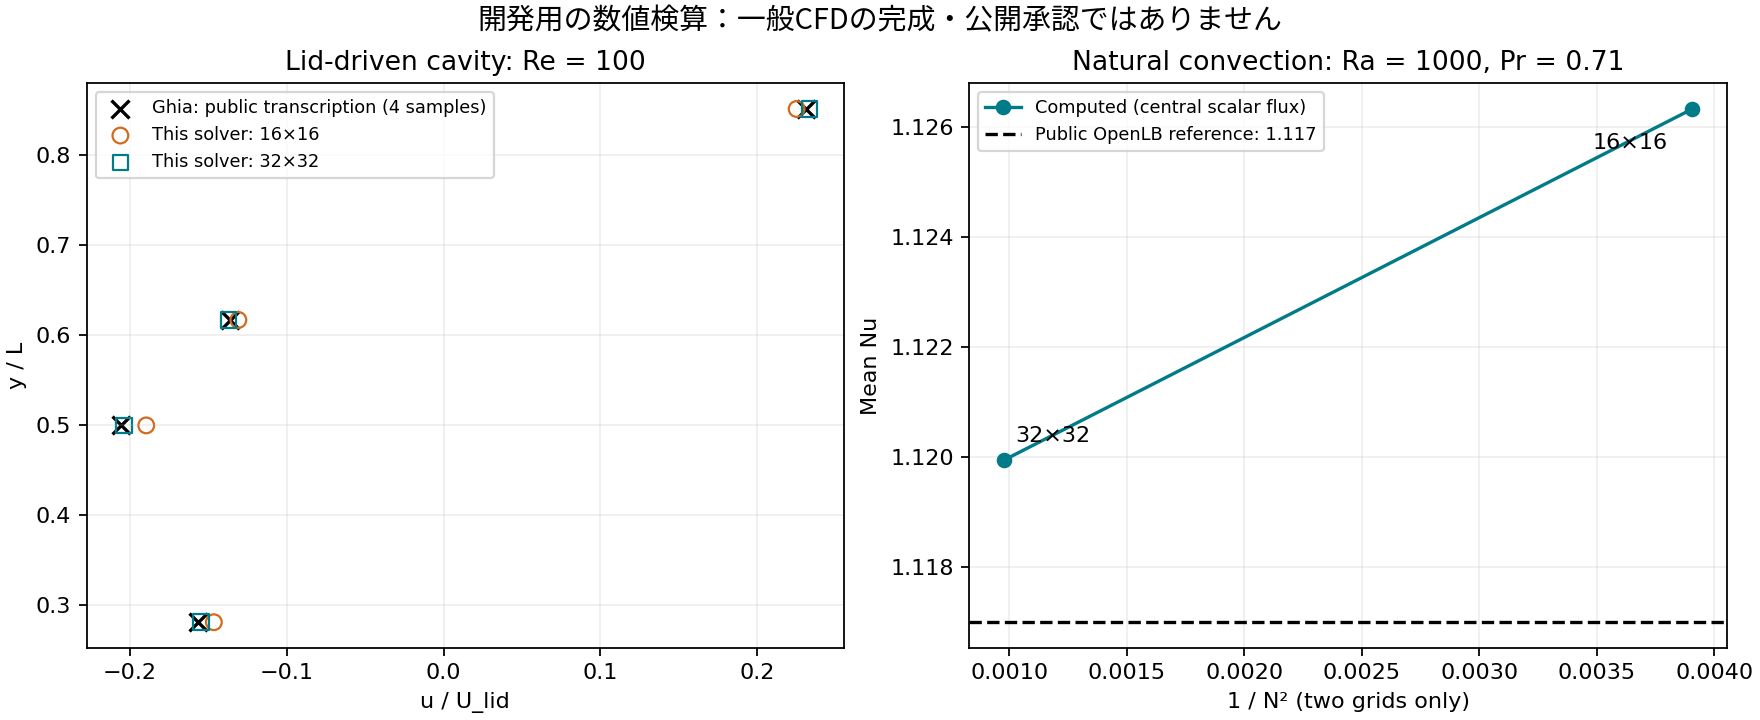
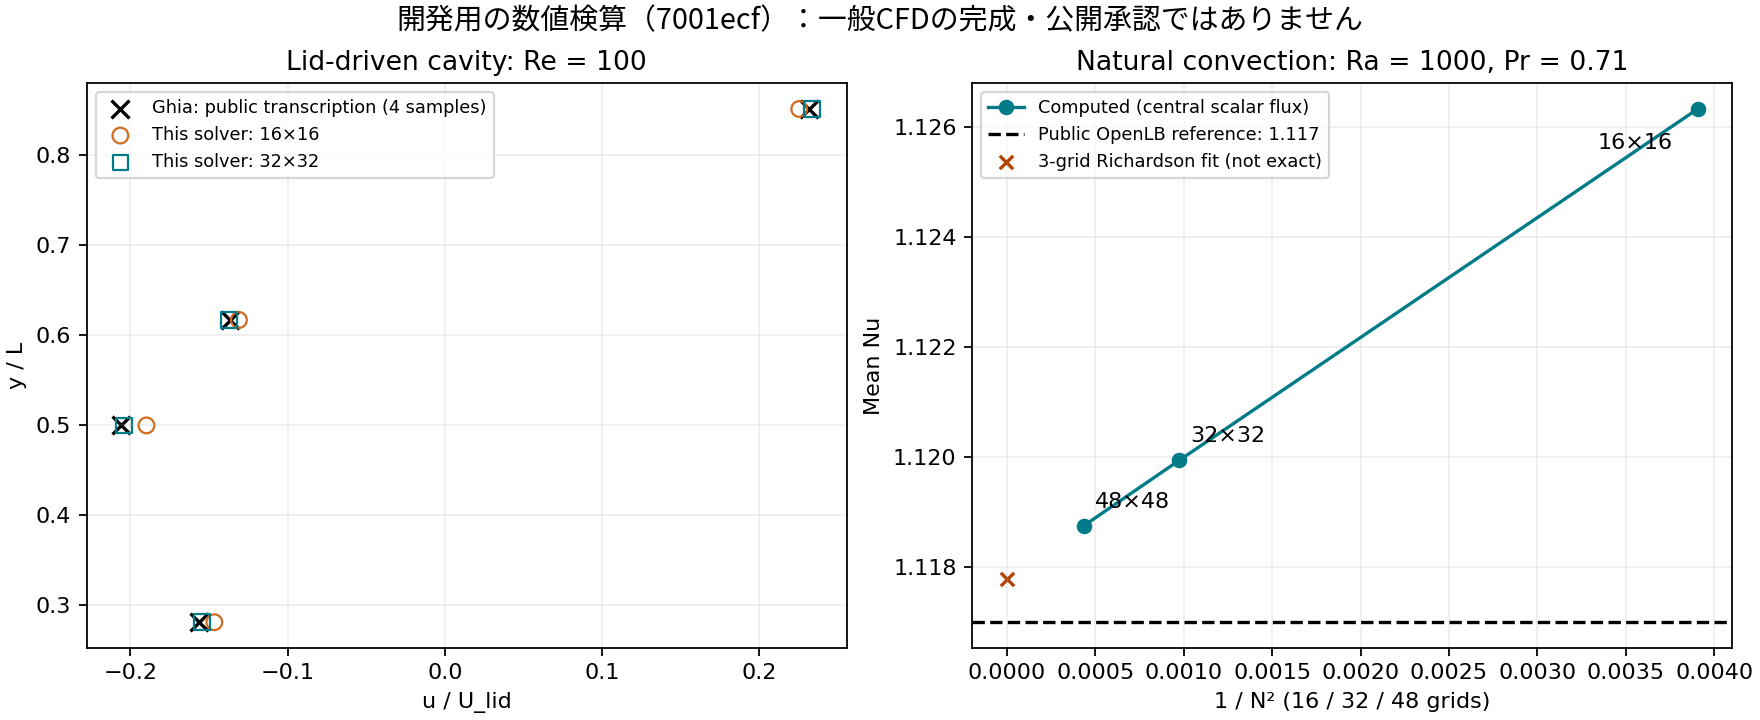
Persist reproducible three-grid CFD evidence and harden developed-channel state

diff --git a/scripts/plot-dynamic-cfd-benchmarks.py b/scripts/plot-dynamic-cfd-benchmarks.py
@@ -7,7 +7,7 @@ matplotlib.use('Agg')
 import matplotlib.pyplot as plt
 from matplotlib.font_manager import FontProperties
 root=Path(__file__).resolve().parents[1]
-r=json.loads((root/'docs/dynamic/CFD_BENCHMARKS_20261104.json').read_text())
+r=json.loads((root/'docs/dynamic/CFD_FULL_REPRODUCTION_20261104.json').read_text())
 candidates=subprocess.check_output(['fc-list',':lang=ja','-f','%{file}\n'],text=True).splitlines()
 font_path=next((p for p in candidates if p.endswith('NotoSansCJK-Regular.ttc')),next((p for p in candidates if p.endswith(('.ttf','.ttc','.otf'))),None))
 font=FontProperties(fname=font_path) if font_path else FontProperties()
@@ -21,6 +21,7 @@ axes[0].legend(fontsize=8,loc='best');axes[0].grid(alpha=.2)
 rows=r['natural'];axes[1].plot([1/x['n']**2 for x in rows],[x['nusselt'] for x in rows],'o-',color='#007b87',label='Computed (central scalar flux)')
 axes[1].axhline(1.117,color='black',linestyle='--',label='Public OpenLB reference: 1.117')
 for row in rows:axes[1].annotate(f"{row['n']}×{row['n']}",(1/row['n']**2,row['nusselt']),xytext=(-45,-18) if row['n']==16 else (5,8),textcoords='offset points')
-axes[1].set(xlabel='1 / N² (two grids only)',ylabel='Mean Nu',title='Natural convection: Ra = 1000, Pr = 0.71');axes[1].grid(alpha=.2);axes[1].legend(fontsize=8)
-fig.suptitle('開発用の数値検算：一般CFDの完成・公開承認ではありません',fontproperties=font,fontsize=13)
+axes[1].scatter([0],[r['naturalThreeGrid']['extrapolatedNusselt']],marker='x',c='#b34300',label='3-grid Richardson fit (not exact)')
+axes[1].set(xlabel='1 / N² (16 / 32 / 48 grids)',ylabel='Mean Nu',title='Natural convection: Ra = 1000, Pr = 0.71');axes[1].grid(alpha=.2);axes[1].legend(fontsize=8)
+fig.suptitle('開発用の数値検算（7001ecf）：一般CFDの完成・公開承認ではありません',fontproperties=font,fontsize=13)
 fig.savefig(root/'docs/dynamic/CFD_COMPARISON_20261104.png',dpi=160)
